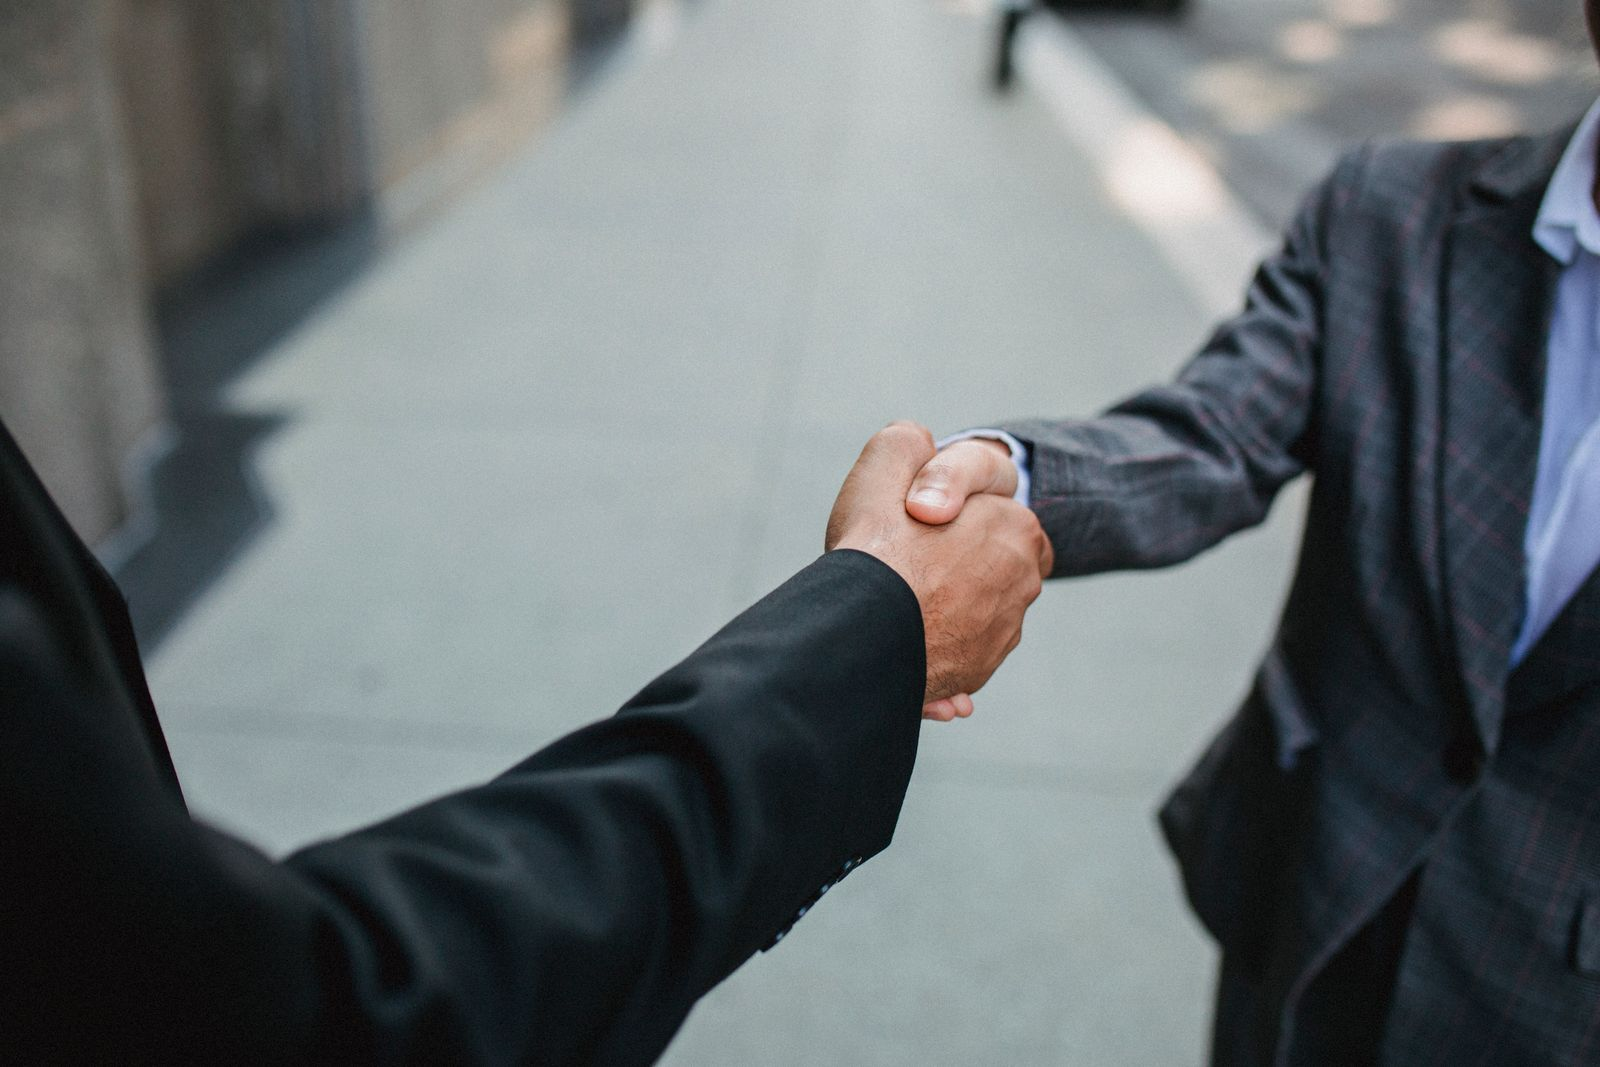
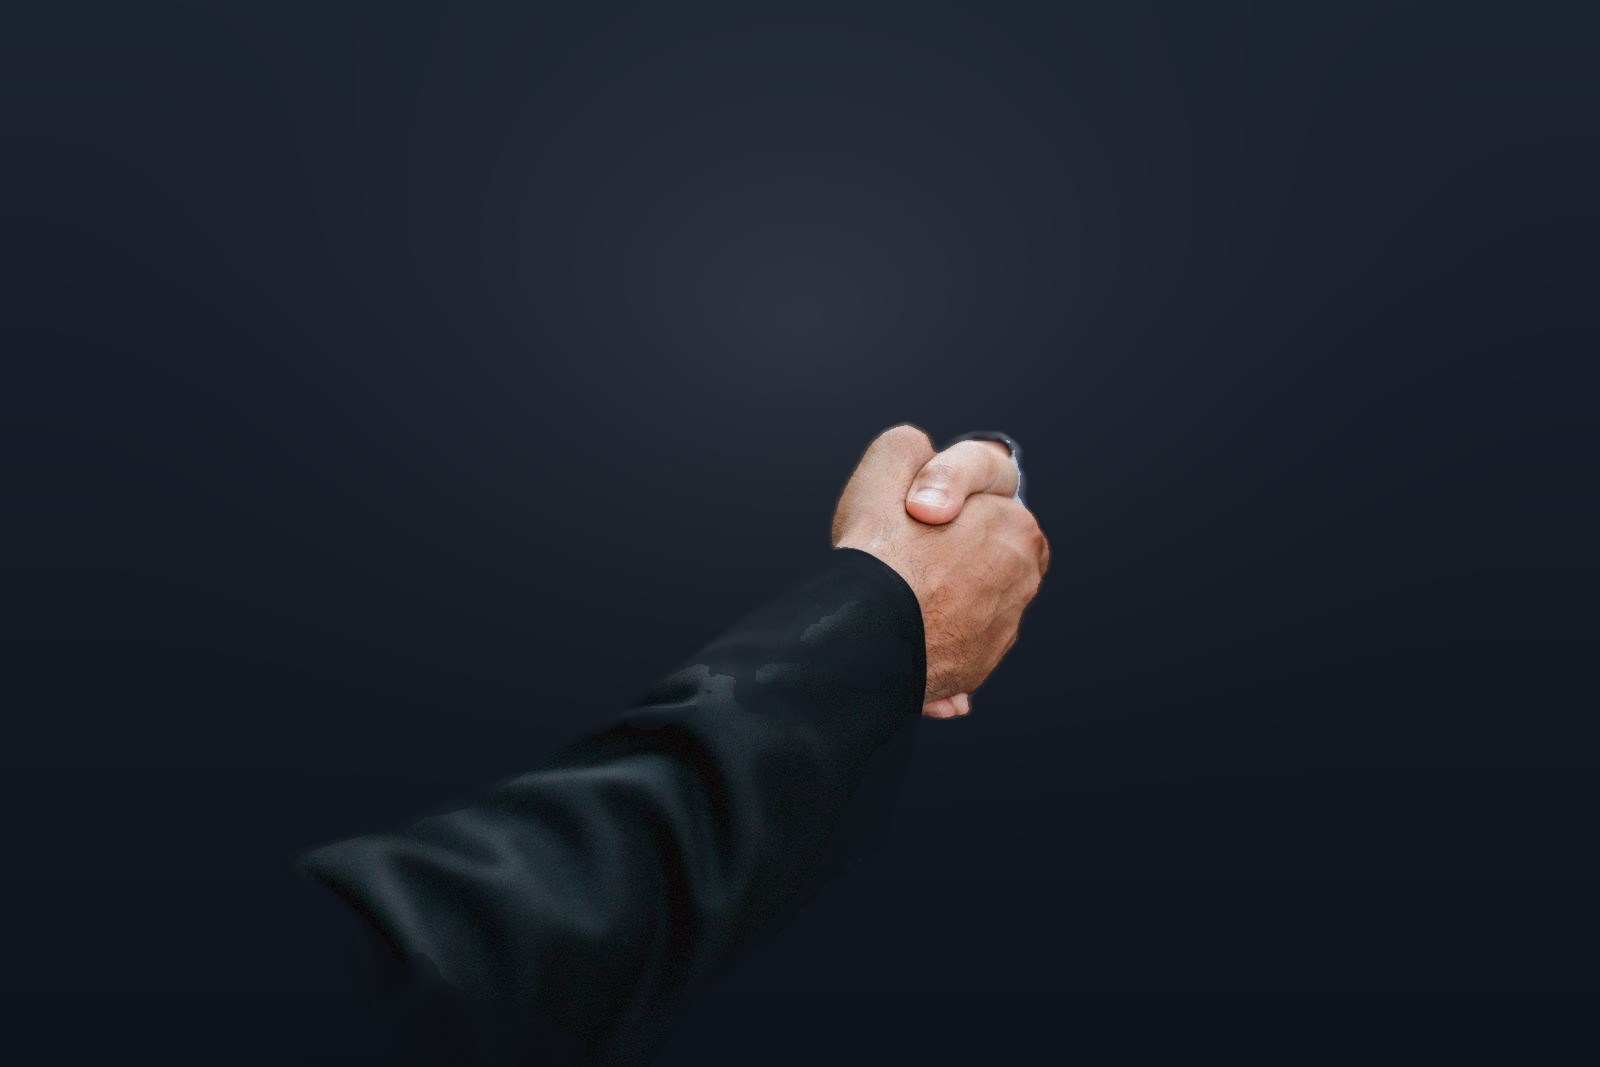
Dark-theme consistency: re-key portraits p-5..p-9, lift muted token, strengthen Sectors grid
- scripts/rekey_rembg.py u2net matte -> dark studio gradient (raised #1d2431 -> field #0e121a) for p-5..p-9
- bright>140 pixels 19.7/45.6/20.8/27.5/60.6% -> 4.4/1.3/2.2/3.9/5.5%; border mean 75-128 -> 26-29
- --color-muted #8b96a8 -> #9aa5b8 (dark theme only; 6.46 -> 7.77 contrast on canvas)
- home Sectors grid: border-line separators, row hover, arrows text-body

diff --git a/src/app/page.tsx b/src/app/page.tsx
@@ -168,12 +168,12 @@ export default function HomePage() {
           href="/industries"
           linkLabel="All industries"
         />
-        <ul className="mt-10 grid grid-cols-1 border-t border-line-soft sm:grid-cols-2 lg:grid-cols-3">
+        <ul className="mt-10 grid grid-cols-1 border-t border-line sm:grid-cols-2 lg:grid-cols-3">
           {industries.map((ind) => (
-            <li key={ind.slug} className="border-b border-line-soft">
+            <li key={ind.slug} className="border-b border-line transition-colors hover:bg-raised/50">
               <Link href={`/industries/${ind.slug}`} className="group flex items-center justify-between gap-6 py-5">
                 <span className="font-serif text-[20px] text-heading group-hover:text-accent">{ind.name}</span>
-                <Arrow className="shrink-0 text-muted group-hover:text-accent" />
+                <Arrow className="shrink-0 text-body transition-colors group-hover:text-accent" />
               </Link>
             </li>
           ))}

diff --git a/src/app/globals.css b/src/app/globals.css
@@ -19,7 +19,7 @@
   --color-line-soft: #1b2230;
   --color-heading: #f4f7fb;
   --color-body: #b9c2d0;
-  --color-muted: #8b96a8;
+  --color-muted: #9aa5b8;
   --color-band: #070910;
   --color-band-2: #0d1119;
   --color-band-3: #131926;
